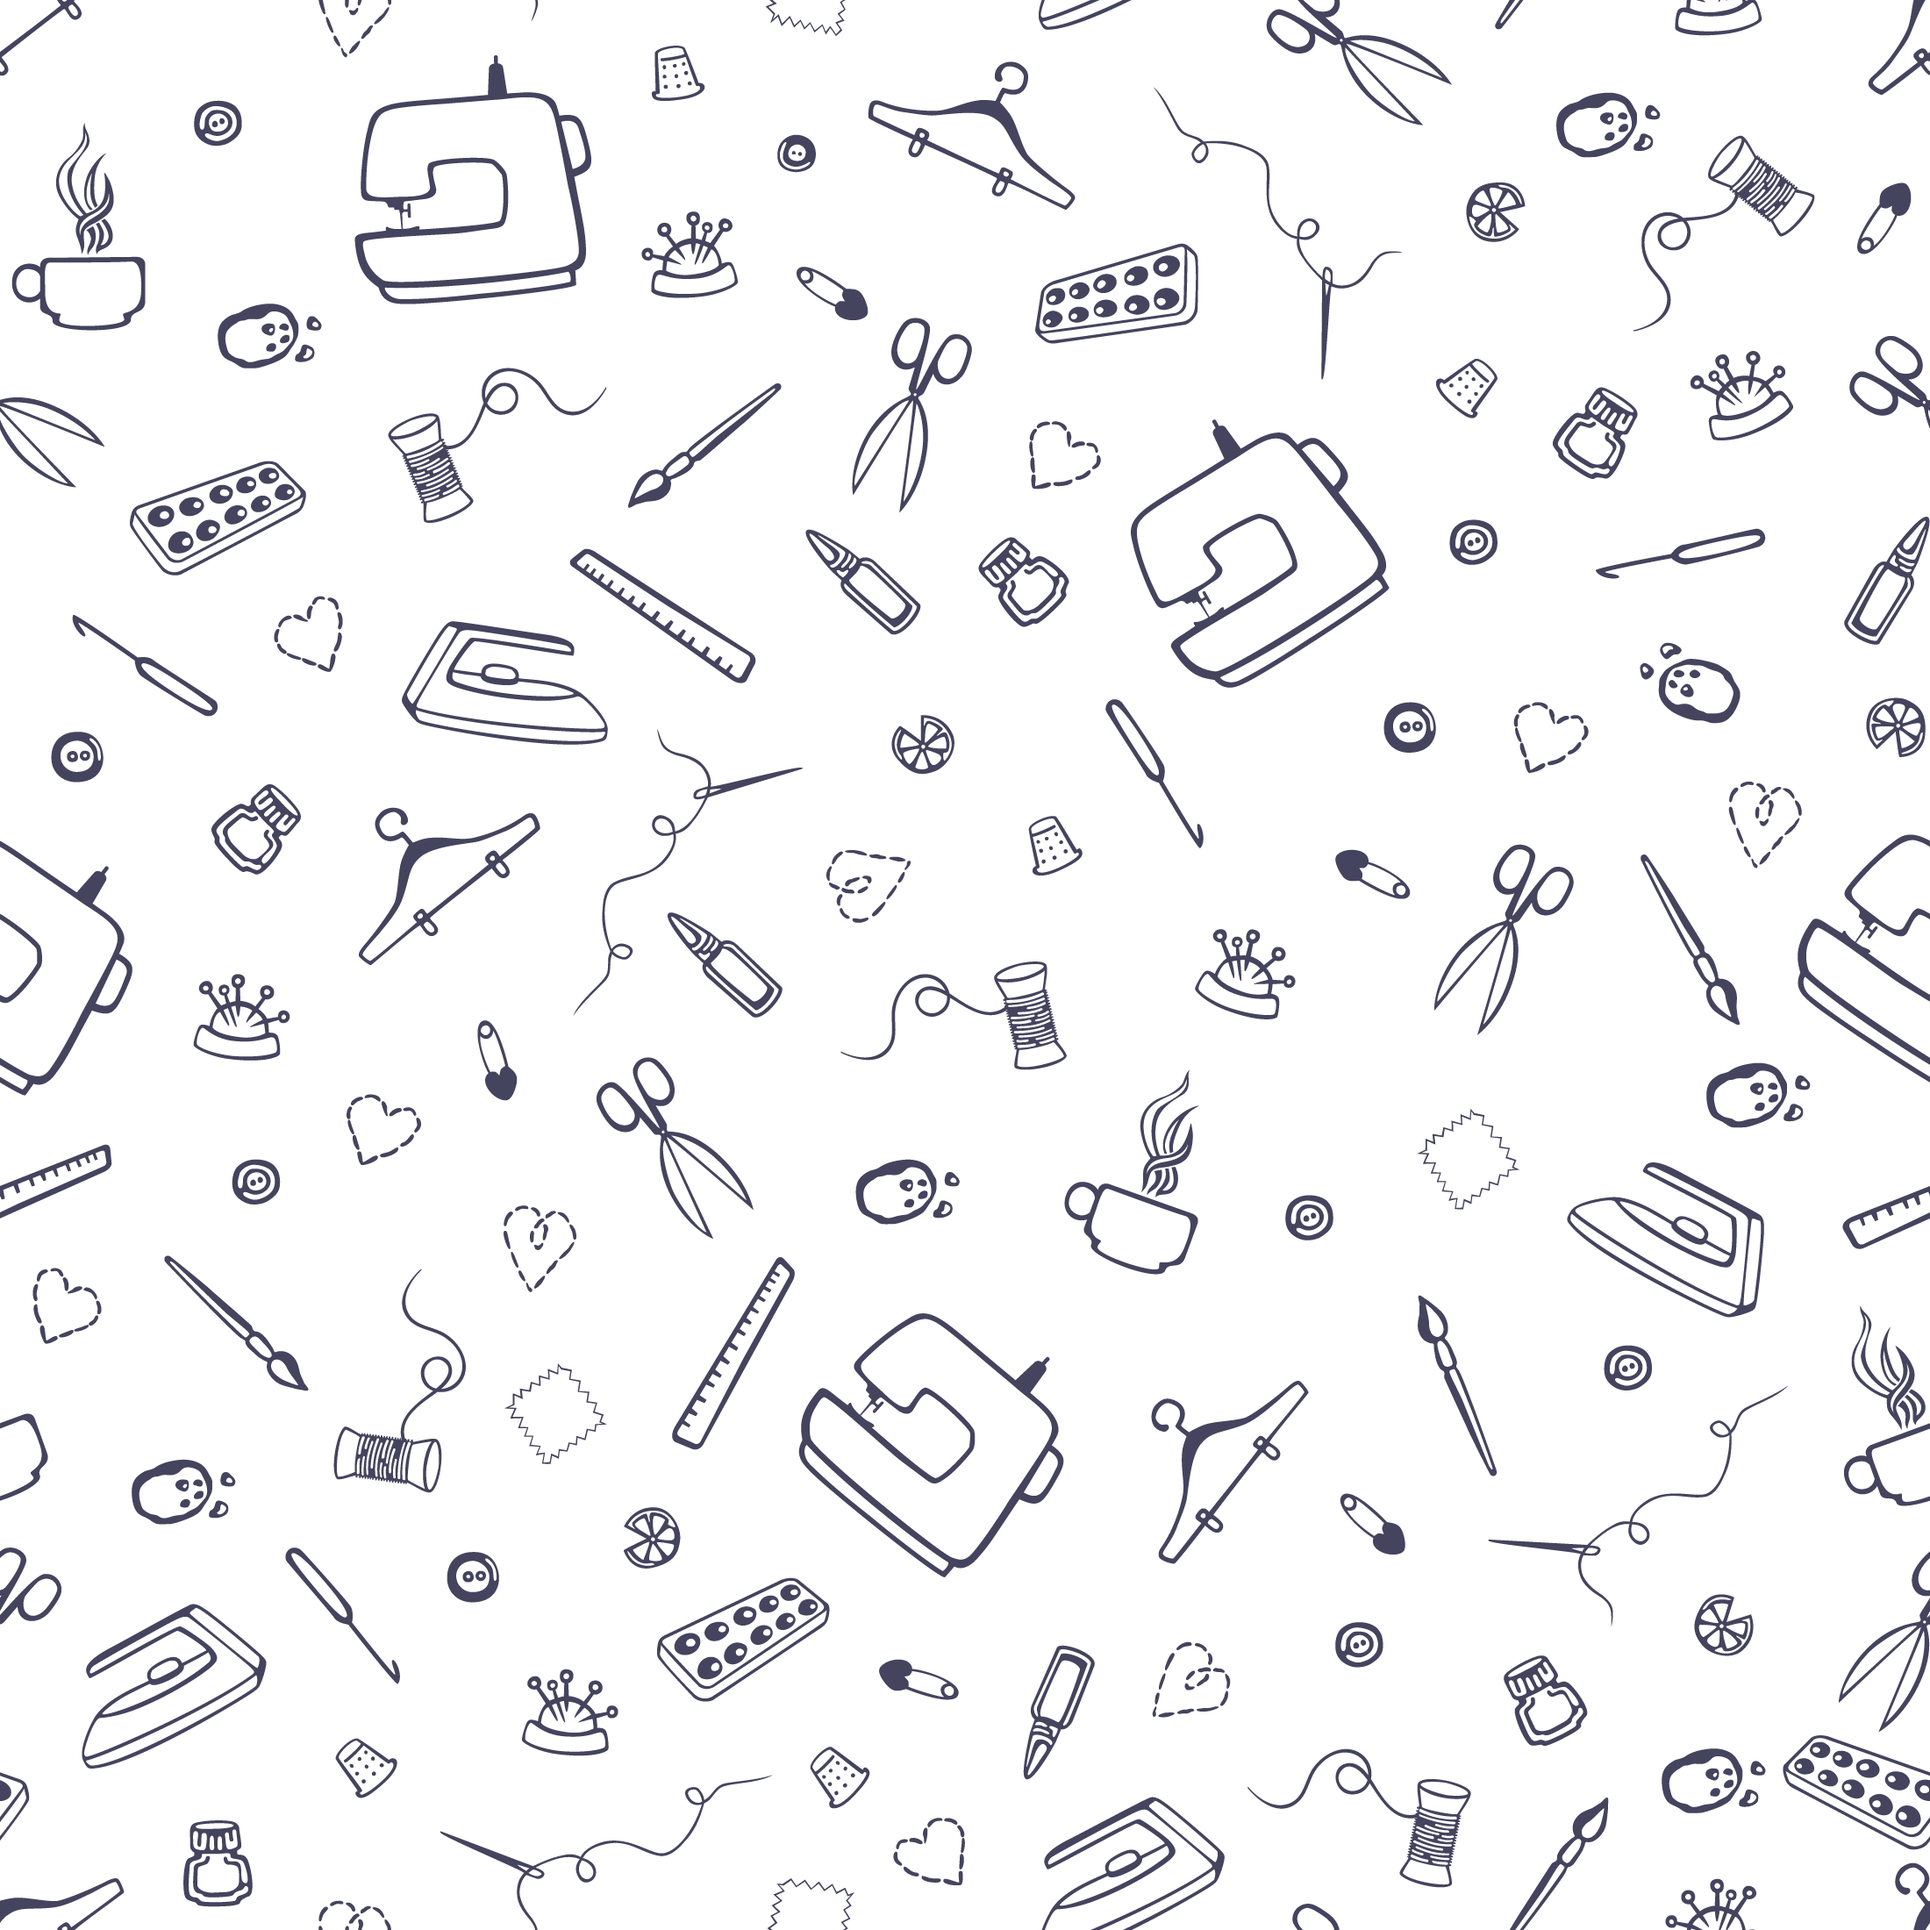
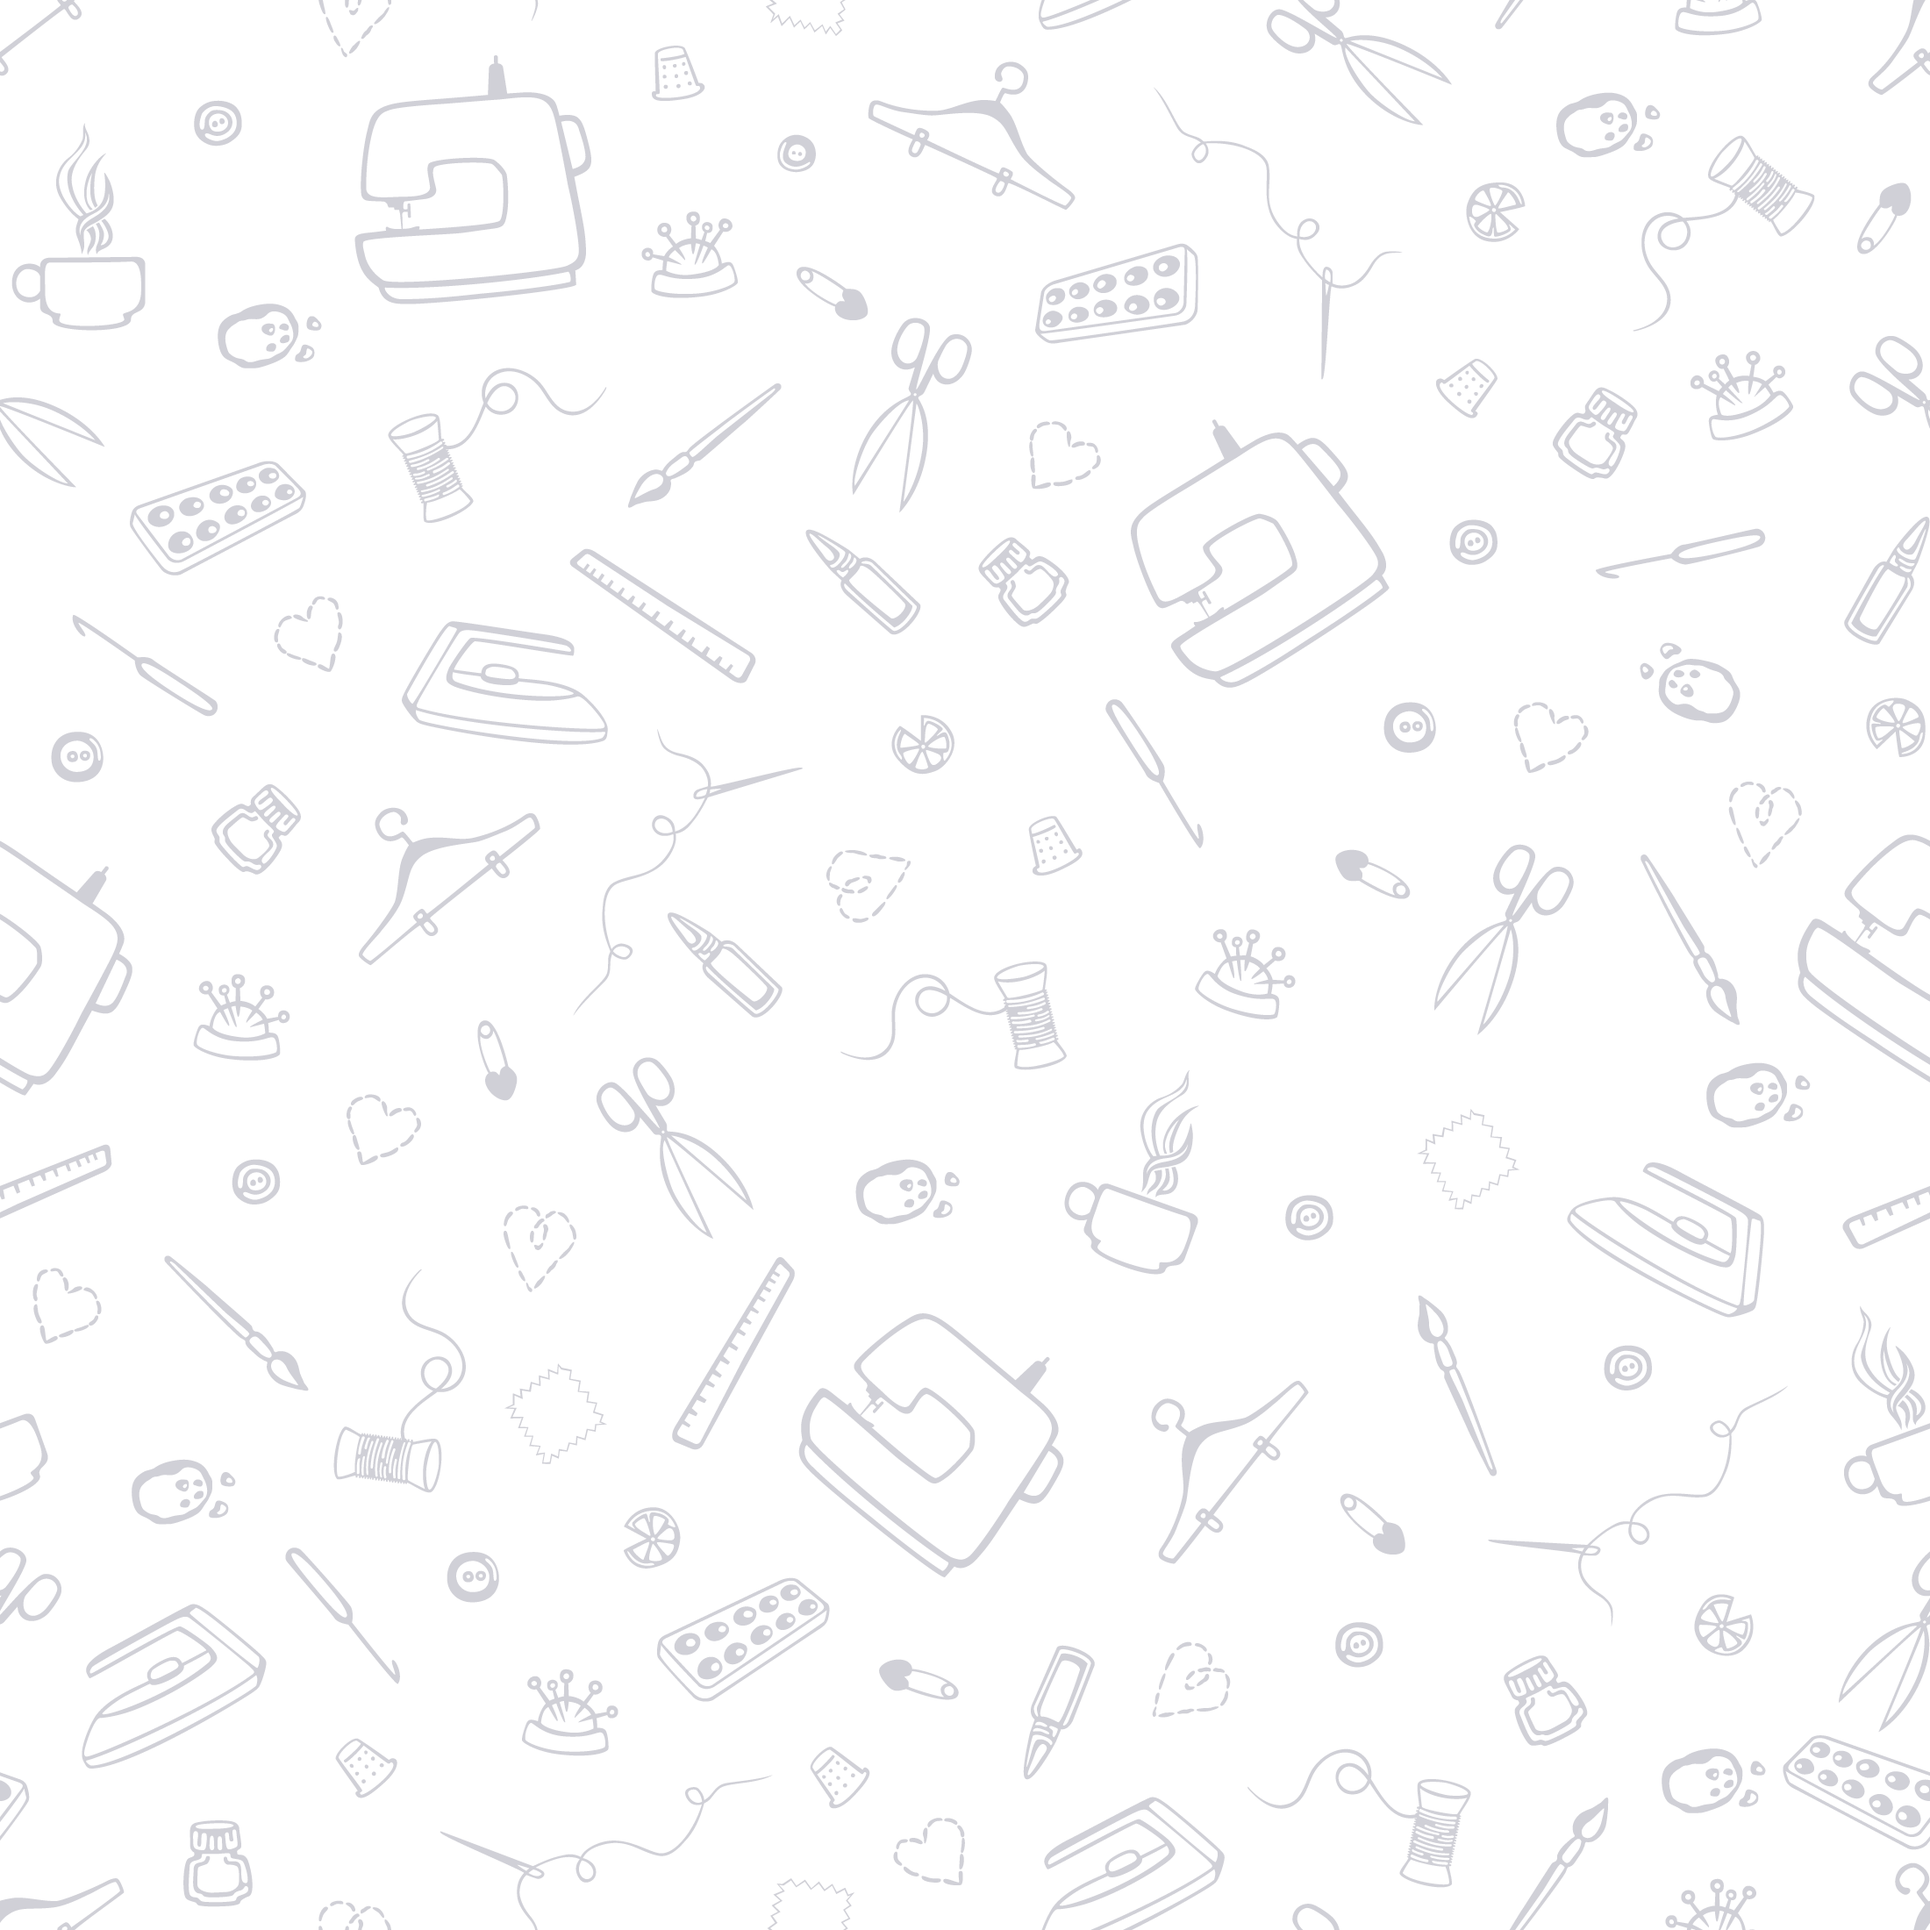
5th commit

diff --git a/src/components/Form.jsx b/src/components/Form.jsx
@@ -4,10 +4,11 @@ import User from "./User";
 import Measurements from "./Measurements";
 import Remarks from "./Remarks";
 import Gender from "./Gender";
+import logo from '../assets/logo.png'
 // import './Form.css';
 const Form = () => {
   const [page, setPage] = useState(0);
-  const formTitles = ["Select Gender","user", "Measurements", "Remarks"];
+  const formTitles = ["Select Gender","User", "Measurements", "Remarks"];
   const [formData, setFormData] = useState({
     name:"",
     mobileNo:"",
@@ -39,28 +40,31 @@ const Form = () => {
   };
   // console.log(watch("FirstName"));
   return (
-    <div className="main">
-      <form onSubmit={handleSubmit(onSubmit)}>
-        <h1>{formTitles[page]}</h1>
-        <div>{PageDisplay()}</div>
+    <>
+    <img className="absolute w-32 top-20" src={logo} alt="" />
+    <h1 className="text-black text-2xl absolute top-48 " >{formTitles[page]}</h1>
+    <div className="bg-white fixed  w-80 h-96 min-h-96 flex items-center justify-center shadow-2xl" style={{height:'31rem',borderRadius:'10px'}}>
+      <form onSubmit={handleSubmit(onSubmit)} className="">
         
-        <div>
+        <div className="flex ">{PageDisplay()}</div>
+        
+        <div className="flex justify-between">
           <button
+            className="bg-blue-500 hover:bg-blue-700 text-white font-bold py-2 px-4 rounded absolute bottom-2 left-4"
             disabled={page === 0}
             onClick={() => {
               setPage((curPage) => curPage - 1);
-              
             }}
           >
             Previous
           </button>
-          <button
+          <button className="bg-blue-500 hover:bg-blue-700 text-white font-bold py-2 px-4 rounded absolute bottom-2 right-4" 
             // disabled={page === formTitles.length - 1}
             onClick={() => {
               if(page === formTitles.length -1){
                 alert('Form Submitted');
                 console.log(formData);
-                window.location.reload(false);
+                // window.location.reload(false);
               }else{
               setPage((curPage) => curPage + 1);
               }
@@ -72,6 +76,7 @@ const Form = () => {
         {/* <input type="submit" /> */}
       </form>
     </div>
+    </>
   );
 };
 

diff --git a/src/components/Measurements.jsx b/src/components/Measurements.jsx
@@ -7,11 +7,11 @@ const Measurements = ({formData,setFormData}) => {
   const onSubmit = data => console.log(data);
   return (
     <form onSubmit={handleSubmit(onSubmit)} >
-      <input placeholder='length' value={formData.length} onChange={(event) => setFormData({...formData, length: event.target.value })} />
-      <input placeholder='shoulder' value={formData.shoulder} onChange={(event) => setFormData({...formData, shoulder: event.target.value })}/>
-      <input placeholder='chest' value={formData.chest}onChange={(event) => setFormData({...formData, chest: event.target.value })}/>
-      <input placeholder='waist' value={formData.waist}onChange={(event) => setFormData({...formData, waist: event.target.value })} />
-      <input placeholder='hip' value={formData.hip} onChange={(event) => setFormData({...formData, hip: event.target.value })}/>
+      <input type='number' className="border-solid border-2 border-sky-600 outline-none p-1 m-2" placeholder='Length' value={formData.length} onChange={(event) => setFormData({...formData, length: event.target.value })} />
+      <input type='number' className="border-solid border-2 border-sky-600 outline-none p-1 m-2" placeholder='Shoulder' value={formData.shoulder} onChange={(event) => setFormData({...formData, shoulder: event.target.value })}/>
+      <input type='number' className="border-solid border-2 border-sky-600 outline-none p-1 m-2" placeholder='Chest' value={formData.chest}onChange={(event) => setFormData({...formData, chest: event.target.value })}/>
+      <input type='number' className="border-solid border-2 border-sky-600 outline-none p-1 m-2" placeholder='Waist' value={formData.waist}onChange={(event) => setFormData({...formData, waist: event.target.value })} />
+      <input type='number' className="border-solid border-2 border-sky-600 outline-none p-1 m-2" placeholder='Hip' value={formData.hip} onChange={(event) => setFormData({...formData, hip: event.target.value })}/>
       
     </form>
   )

diff --git a/src/components/Gender.jsx b/src/components/Gender.jsx
@@ -6,38 +6,18 @@ const User = () => {
     const [gender, setGender] = useState('')
     
   return (
-    <div>
        
-      <div
-        className="gender"
-        style={{
-          display: "flex",
-          alignItems: "center",
-          justifyContent: "center",
-        }}
-      >
-        <div
-          style={{
-            display: "flex",
-            alignItems: "center",
-            flexDirection: "column",
-          }}
-        >
+      <div className="flex justify-between align-center">
+        <div className="flex-col justify-between align-center" >
           <img src={female} style={{ width: "100px" }} alt="" />
-          <input type="radio" name='gender' value='Female' onChange={(e)=>setGender(e.target.value)}/>
+          <input className="ml-3.5" type="radio" name='gender' value='Female' onChange={(e)=>setGender(e.target.value)}/>
         </div>
-        <div
-          style={{
-            display: "flex",
-            alignItems: "center",
-            flexDirection: "column",
-          }}
-        >
+        <div className="flex-col justify-between align-center">
           <img src={male} style={{ width: "105px" }} alt="" />
           <input type="radio" name='gender' value='Male' onChange={(e)=>setGender(e.target.value)} />
         </div>
       </div>
-    </div>
+    
   );
 };
 

diff --git a/src/components/User.jsx b/src/components/User.jsx
@@ -1,14 +1,31 @@
 import React from "react";
 
-const User = ({formData, setFormData}) => {
+const User = ({ formData, setFormData }) => {
   return (
+    <>
     <div>
-      <input type="text" placeholder="Name" value={formData.name} 
-      onChange={(event) => setFormData({...formData, name: event.target.value })}/>
-      
-      <input type="number" placeholder="Mobile No" value={formData.mobileNo} 
-      onChange={(event) => setFormData({...formData, mobileNo: event.target.value })}/>
+      <h1>Customer Info</h1>
+      <input
+        className="border-solid border-2 border-sky-600 outline-none p-1 m-2"
+        type="text"
+        placeholder="Name"
+        value={formData.name}
+        onChange={(event) =>
+          setFormData({ ...formData, name: event.target.value })
+        }
+      />
+
+      <input
+        className="border-solid border-2 border-sky-600 outline-none p-1 m-2"
+        type="number"
+        placeholder="Mobile No"
+        value={formData.mobileNo}
+        onChange={(event) =>
+          setFormData({ ...formData, mobileNo: event.target.value })
+        }
+      />
     </div>
+    </>
   );
 };
 

diff --git a/src/components/Remarks.jsx b/src/components/Remarks.jsx
@@ -3,7 +3,8 @@ import React from 'react'
 const Remarks = ({formData, setFormData}) => {
   return (
     <div>
-        <input placeholder='notes' value={formData.notes} onChange={(event) => setFormData({...formData, notes: event.target.value })} />
+        <textarea className="border-solid border-2 border-sky-600 outline-none p-1 m-2 w-60 h-60" placeholder='Notes' value={formData.notes} onChange={(event) => setFormData({...formData, notes: event.target.value })} ></textarea>
+        <input className='ml-28' type="file" id="myfile" onChange={(event) => setFormData({...formData, file: event.target.value })} />
     </div>
   )
 }

diff --git a/src/index.css b/src/index.css
@@ -1,4 +1,15 @@
+@tailwind base;
+@tailwind components;
+@tailwind utilities;
+
+@import url('https://fonts.googleapis.com/css2?family=Italiana&display=swap');
 body {
+  margin: 0;
+  font-family: 'Italiana', serif;
+  -webkit-font-smoothing: antialiased;
+  -moz-osx-font-smoothing: grayscale;
+}
+/* body {
   margin: 0;
   font-family: -apple-system, BlinkMacSystemFont, 'Segoe UI', 'Roboto', 'Oxygen',
     'Ubuntu', 'Cantarell', 'Fira Sans', 'Droid Sans', 'Helvetica Neue',
@@ -10,4 +21,4 @@ body {
 code {
   font-family: source-code-pro, Menlo, Monaco, Consolas, 'Courier New',
     monospace;
-}
+} */

diff --git a/src/App.css b/src/App.css
@@ -4,7 +4,13 @@
   display: flex;
   justify-content: center;
   align-items: center;
+  background-image: url('../src/assets/bg.png');
+  background-repeat: no-repeat;
+  background-position: center;
+  background-size: cover;
 }
+
+/* 
 
 .App-logo {
   height: 40vmin;
@@ -39,4 +45,4 @@
   to {
     transform: rotate(360deg);
   }
-}
+} */

diff --git a/tailwind.config.js b/tailwind.config.js
@@ -1,0 +1,11 @@
+/** @type {import('tailwindcss').Config} */
+module.exports = {
+  content: [
+    "./src/**/*.{js,jsx,ts,tsx}",
+  ],
+  theme: {
+    extend: {},
+  },
+  plugins: [],
+}
+
